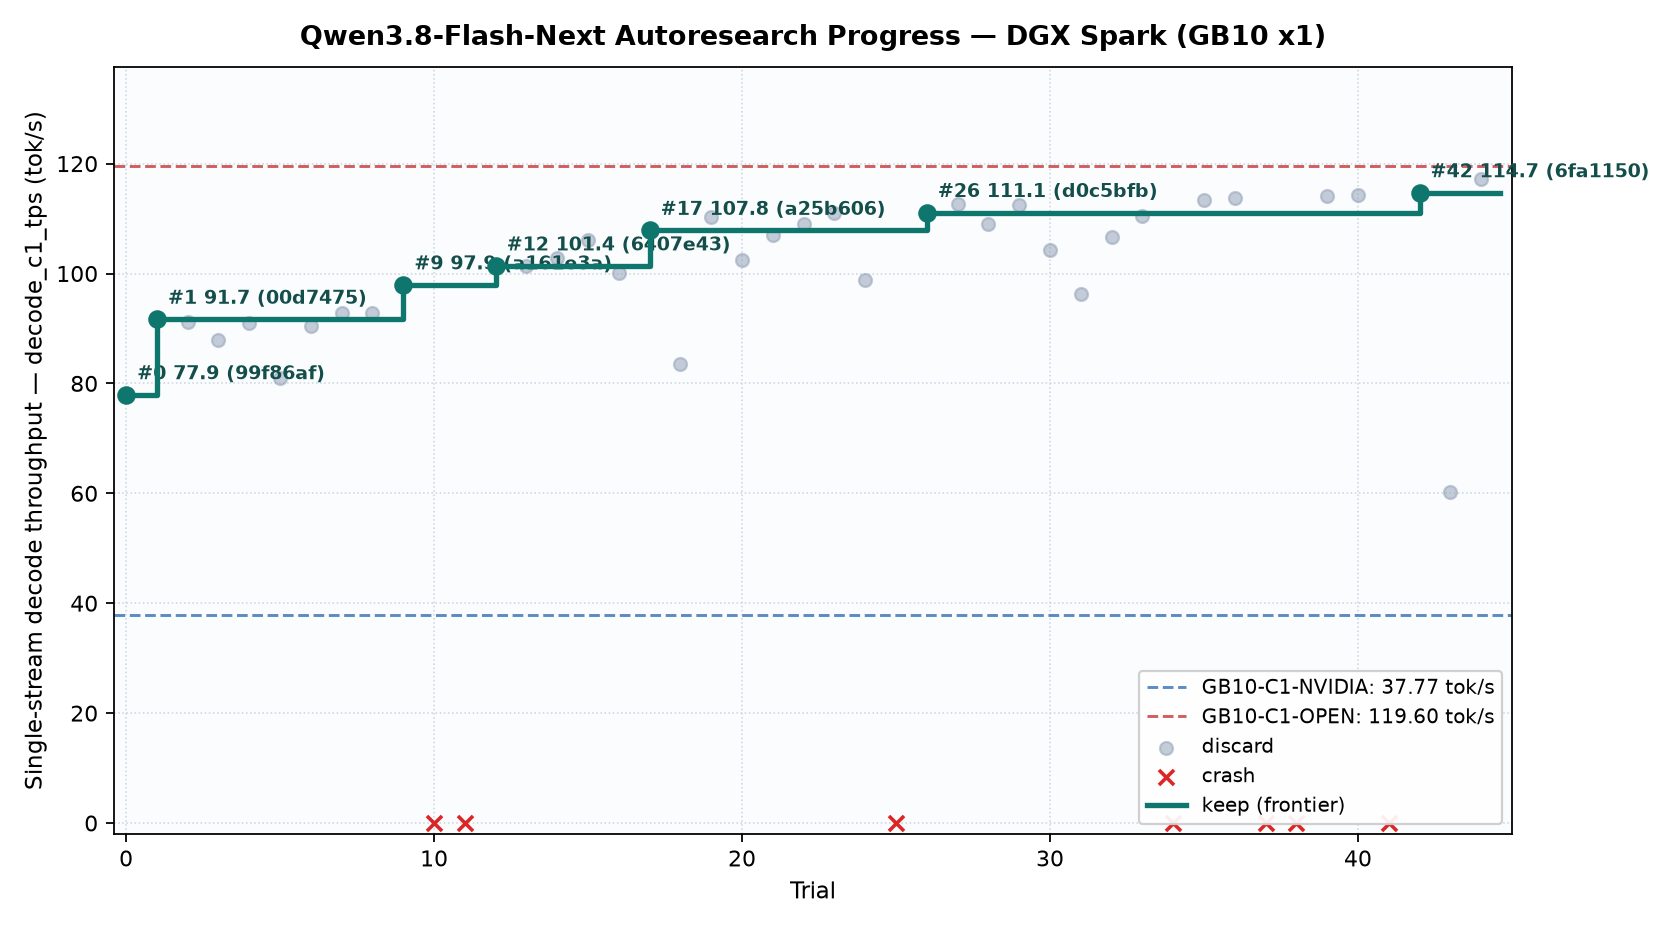
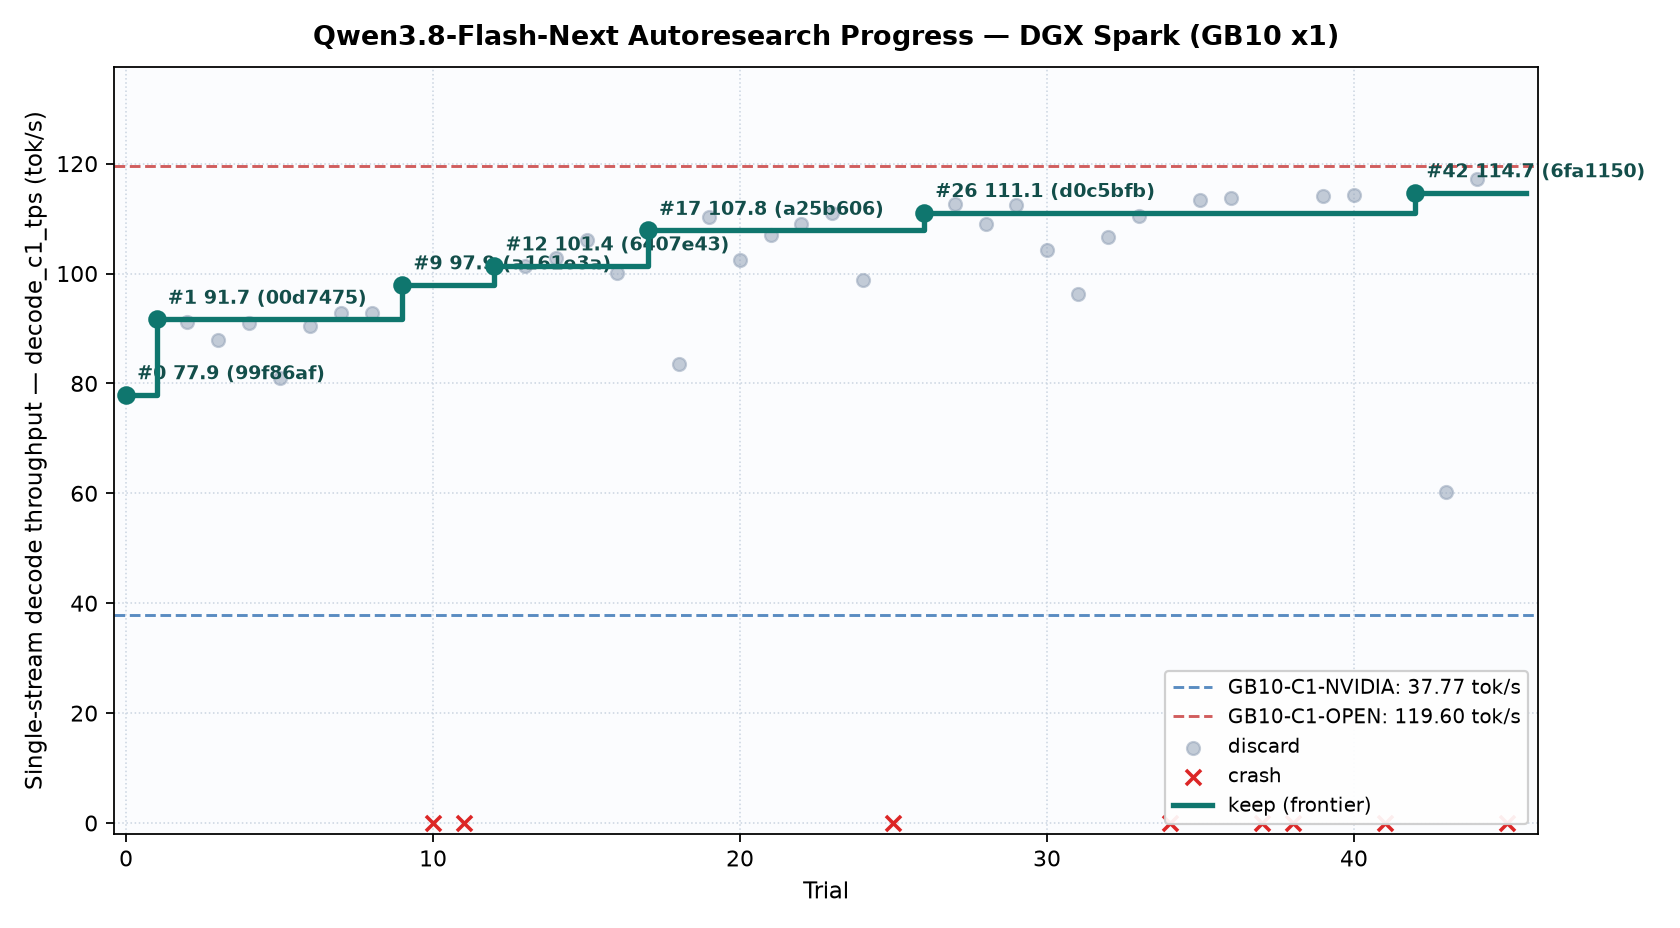
spark trial 45: crash

diff --git a/records/research-log.md b/records/research-log.md
@@ -56,3 +56,4 @@ Every trial appends a 1-line check of upstream inference engines (`vllm-project/
 | 2026-11-20 00:55 | 42 (new stack) | <https://github.com/ashhart/TensorFold/blob/6b9de695/zig/kernels/cuda/flashnext_gdn_lanes.cuh>, <https://github.com/ashhart/TensorFold/blob/6b9de695/zig/src/families/flashnext/cuda_lanes.zig>, <https://github.com/vllm-project/vllm/commit/d2da27eb>, <https://github.com/sgl-project/sglang/commit/6515ac29> | Six-engine recheck (`vllm` `d2da27eb`, `sglang` `6515ac29`, `TensorRT-LLM` `d1819e9b`, `llama.cpp` `9a080f44`, `TensorFold` `68585107`, `hibana` `d474b74d`): Trial 41 hit `115.66-115.94 tok/s` (`+4.3%` over keep `111.09`, `ttft=0.151s` record, `hash_match=1`, `+0.90 tok/s` from `tf_nvfp4_half_coop4` alone) before crashing on `c4` because `flashnext_gdn_lanes.cuh:60` (`fn_gdn_lanes_chain`, `grid=48x8x4, block=128`) also called `gdn_rows_late`; also confirmed `cuda_lanes.zig:47` allocates only `parallel-1=15` pool lanes under `KV_PAGES_ALL=1`, explaining the 16th-stream `c16` stall (`252->272 tok/s`). | Adopted in trial 42: keep `gdn_rows_late` intact for `fn_gdn_lanes_chain` (`c4/c8/c16`) and dispatch separate `gdn_rows_late_1t` only from `fn_gdn_rows_late` (`c1`), allocate `streams + @intFromBool(kvl.pagedOnly() and streams > 0)` pool lanes in `cuda_lanes.zig` with `KV_PAGES_ALL=1`, keeping Trial 41's `tf_nvfp4_half_coop4` and `L2::256B` `W2` (`hash_match=1`). |
 | 2026-11-20 01:43 | 43 (new stack) | <https://github.com/ashhart/TensorFold/blob/6b9de695/zig/kernels/cuda/qmmf.cu>, <https://github.com/ashhart/TensorFold/blob/6b9de695/zig/kernels/cuda/qmmf_body.cuh>, <https://github.com/NVIDIA/TensorRT-LLM/commit/7d6def1f>, <https://github.com/ashhart/TensorFold/commit/68585107> | Six-engine check (`vllm` `d2da27eb`, `sglang` `6515ac29`, `TensorRT-LLM` `7d6def1f` PR `#22513`, `llama.cpp` `9a080f44`, `TensorFold` `68585107`, `hibana` `d474b74d`): cold-DRAM GB10 microbenchmarks on real checkpoint weights revealed four bit-exact (`diffs=0`, `STACK:0`) wins on Trial 42's `114.69 tok/s` keep: (1) fixed `5,760B` 128B-aligned lossless `Mode::BF11` (`11.375 b/w`, 3-bit delta + ballot-fast 32-slot inline `hi4`, `STAGES=2` `6 CTAs/SM`) runs `+10.0%` faster than `BF12` on large-`N` `in_proj`/`qkv` (`251.5-253.4 GB/s` eff); (2) inlining `dec12_pair_esc_inl` for `BM==16` drops `REG:72->56-64` (`STACK:0`) and cuts `hc.down`/`hc.up`/`out_proj` `-3%..-18%`; (3) `Mode::W2` (`2.25-bit` g32 E4M3 Tensor Core MMA, `178.8 MB` vs `357.6 MB`, `13 ms` GPU pack, `SNR=14.54 dB`, `16/16` top-16 / `max_rank=1`) halves coarse Target `lm_head` (`1595->842 us`, `-31 ms`, `-179 MB` VRAM) with exact BF16 top-64 rescore; (4) `BN=64` (`h_thr=32`) for `.bf12` `hc.down` `[320,10240]` beats `BN=32` (`22.9` vs `26.2 us`, `+12.6%`) at identical `SK=8` summation order. | Adopted in trial 43 on Trial 42 `keep`: add `Mode::BF11` (`n>=4096,k>=2560` + `128x128` TMA prompt + `STAGES=2` `BM=16`), `BM==16` inlined `dec12_pair_esc_inl` for `BF12`/`BF11`, `Mode::W2` (`TF_FLASHNEXT_HEAD_NVFP4=w2`) coarse Target `lm_head` + exact BF16 top-64 rescore, and `h_thr=32` (`BN=64`) for `.bf12` (`hash_match=1`). |
 | 2026-11-20 04:48 | 44 (new stack) | <https://github.com/ashhart/TensorFold/commit/8ddcb75b>, <https://github.com/sgl-project/sglang/commit/17a9168f>, <https://github.com/vllm-project/vllm/commit/0222f863>, <https://github.com/NVIDIA/TensorRT-LLM/commit/ffed918b>, <https://github.com/ggml-org/llama.cpp/commit/c406f436> | Six-engine check (`vllm` `9b8bfd73`/`0222f863`, `sglang` `17a9168f` FP4 indexer fuse, `TensorRT-LLM` `ffed918b`, `llama.cpp` `c406f436`, `TensorFold` `8ddcb75b`/PR `#3613`/`#4003`, `hibana` `d474b74d`): Trial 42 `nsys` + isolated A/B showed (1) `fn_gdn_rows_late` hit `255` regs/spill and `nvfp4_experts.cu::ld_nc` lacked `L1::evict_first.L2::256B` (fixing both jumped `+6.3%..+9.5%` bit-identically); (2) 2-warp `tf_nvfp4_half_coop2` (`HALF_MIN=1..320`), `Mode::W2` coarse Target `lm_head` + direct-argmax `.w2` fix, and 1.125-bit `W1g64` MTP proposal head + top-64 exact rescore pushed cumulative gain to `+8.4%..+12.0%` (`hash_match=1`), while `INT6` `hc.down` scale bug in `matmulRawPart` was also fixed (deferred to Trial 45 A/B). | Adopted in trial 44 on Trial 42 `keep`: zero-spill 4-thread `L2::256B` `fn_gdn_rows_late`, `L1::evict_first.L2::256B` `nvfp4_experts.cu::ld_nc`, 2-warp `tf_nvfp4_half_coop2` (`items=1..320`), `Mode::W2` coarse Target `lm_head` with direct-argmax `.w2` fix, and 1.125-bit `W1g64` MTP proposal head (`W1_CAL=1.15`, `W1_KTOP=64`, `MTP_INT6=0`; `hash_match=1`). |
+| 2026-11-20 05:15 | 45 (new stack) | <https://github.com/vllm-project/vllm/commit/5328ae2f>, <https://github.com/ashhart/TensorFold/blob/6b9de695/zig/kernels/cuda/route_rows.cu>, <https://github.com/ashhart/TensorFold/blob/6b9de695/zig/kernels/cuda/nvfp4_experts.cu> | Six-engine check (`vllm` `5328ae2f` Mega MoE PR `#66812`, `sglang` `17a9168f`, `TensorRT-LLM` `9f604ace`, `llama.cpp` `c406f436`, `TensorFold` `8ddcb75b`, `hibana` `d474b74d`): Trial 44 hit all-time records (`117.23` C1 `+2.22%`, `168.90` C4, `229.71` C8, `275.23` C16, `hash_match=1`), only `0.90 tok/s` shy of `+3.0%` `keep`; warm `r2` `nsys` + cold-DRAM GB10 microbenchmarks isolated 4 bit-exact (`STACK:0`) wins on Trial 44 base: (1) fused 1-CTA `tf_route_topk_plan` (`8.20 us` vs `18.2 us` separate `tf_route_topk`+`plan_kernel`, `-41 ms` / `+0.81%`); (2) 4-warp contiguous-`uint4` `r0+=8` `tf_nvfp4_full_r8` (`128` regs, `0` spill, `0` barriers, `226.4` vs `220.6 GB/s` on `c1`/MTP `items<=192`, keeping `half_coop2` for `c4+`); (3) `BN=64` (`h_thr=32`) for `.bf12` `hc.down` (`w.n<=640`, `+12.6%` at identical `SK=8`); (4) `BF12` `STAGES=2` (`6 CTAs/SM`) across all `BM=16 BN=64` plain projections (`TF_BF12_S2_MAX_PER=64`, `242.3 GB/s` on `in_proj`). | Adopted in trial 45 on Trial 44's `117.23 tok/s` base (all 4 bit-exact wins, `MTP_INT6=0`, `hash_match=1`). |
